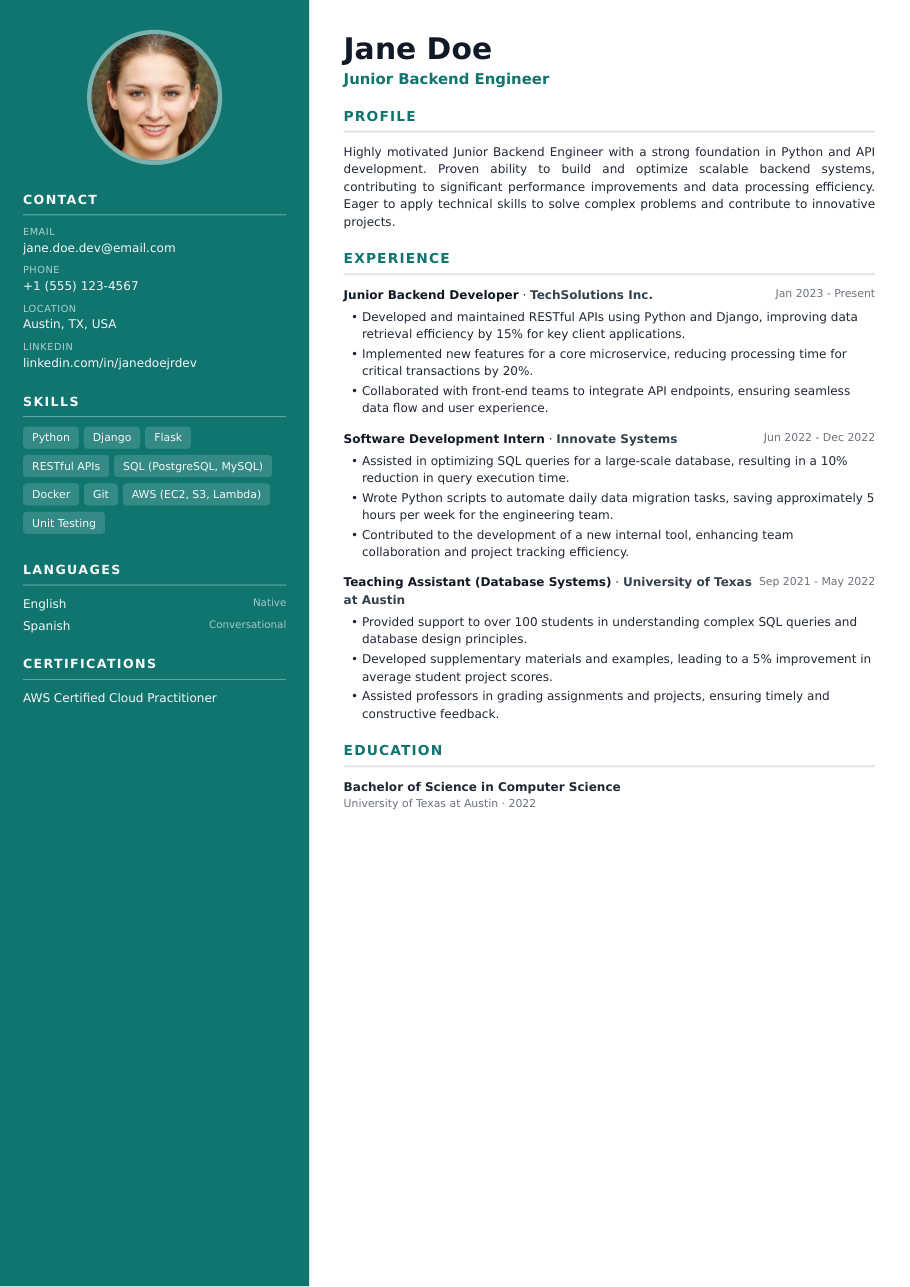
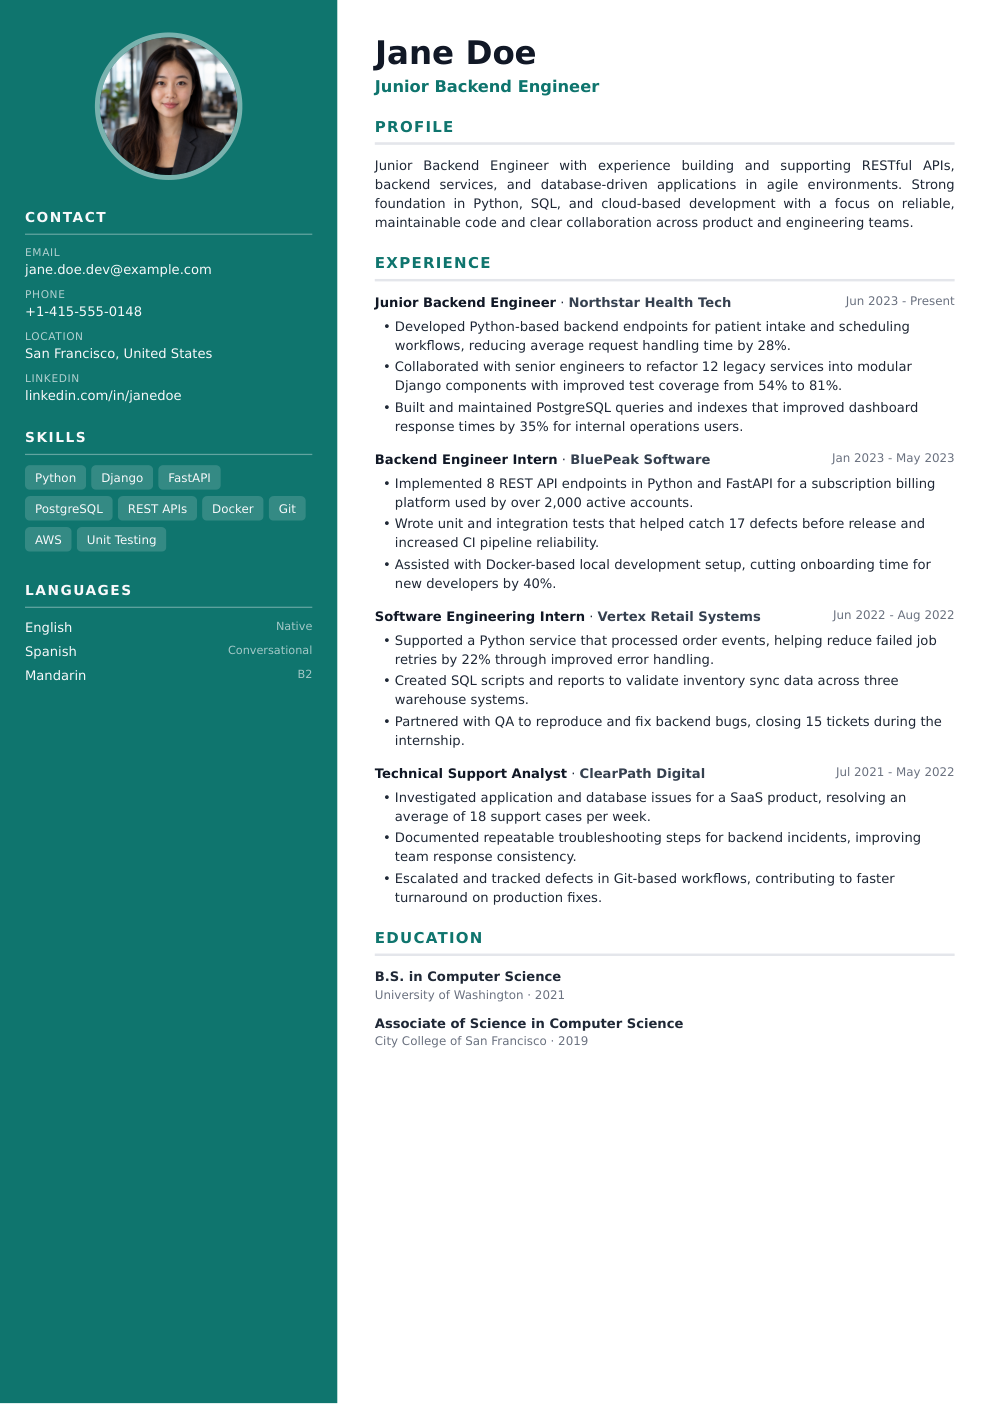
Refresh README screenshots and add AI-headshot example
Update the chat-UI screenshot to the editorial design (with inline PDF links),
the sample CV to a gpt-image-2 candidate, and add a strip of unique
gpt-image-2 headshots to showcase per-candidate photo generation.

diff --git a/README.md b/README.md
@@ -56,7 +56,13 @@ store can be swapped for **Pinecone/Weaviate**, the query path wrapped in a
 |---|---|
 | ![Chat UI](docs/ui.png) | ![Sample CV](docs/sample_cv.png) |
 
-Answers are grounded in the CVs and cite the source files actually used.
+Answers are grounded in the CVs and cite the source files actually used — each `.pdf`
+mention and source chip links to the candidate's PDF.
+
+**AI-generated headshots** — a unique `gpt-image-2` portrait per candidate, inferred
+from their name, role, and location:
+
+![AI-generated headshots](docs/sample_photos.png)
 
 ---
 
